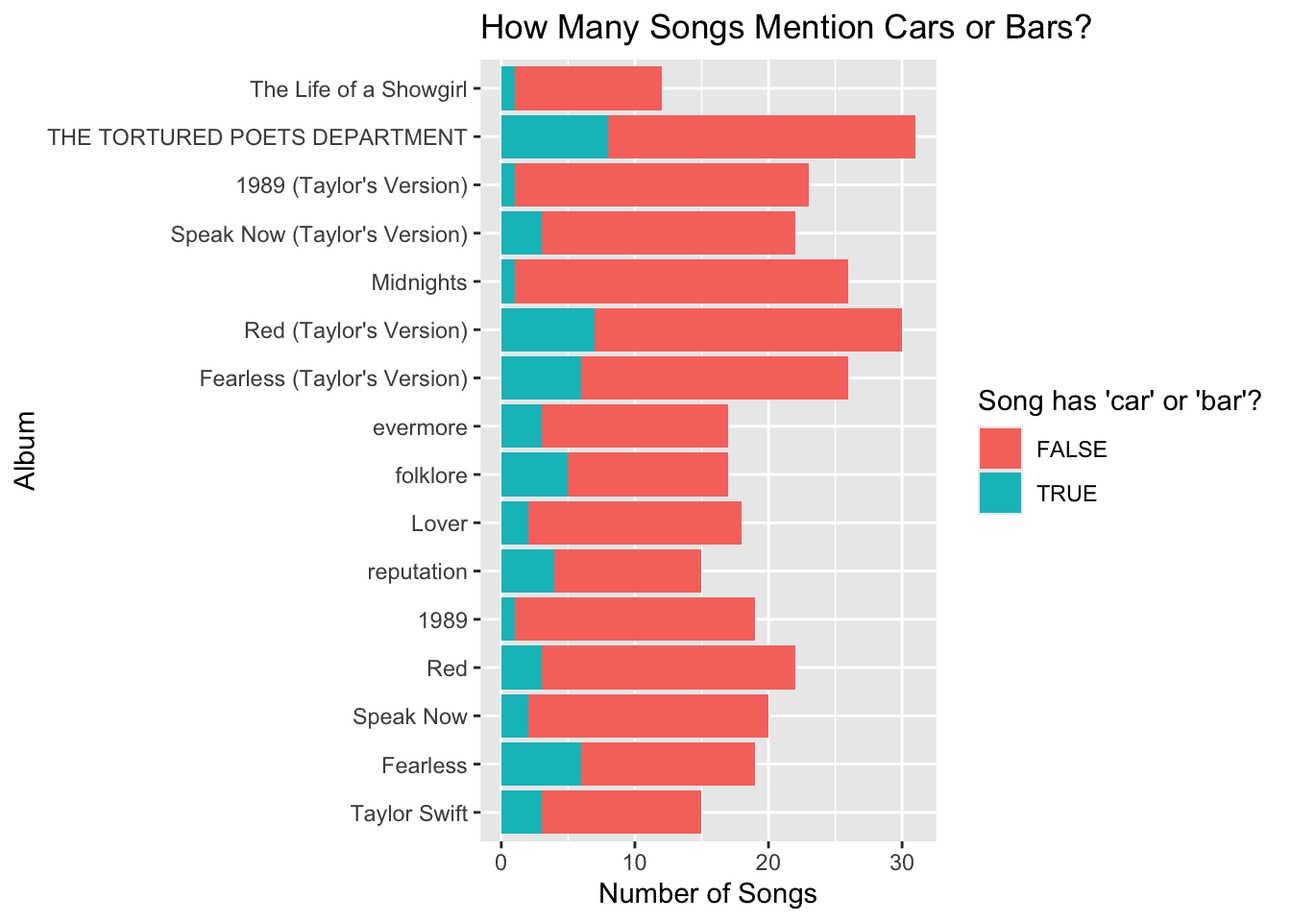
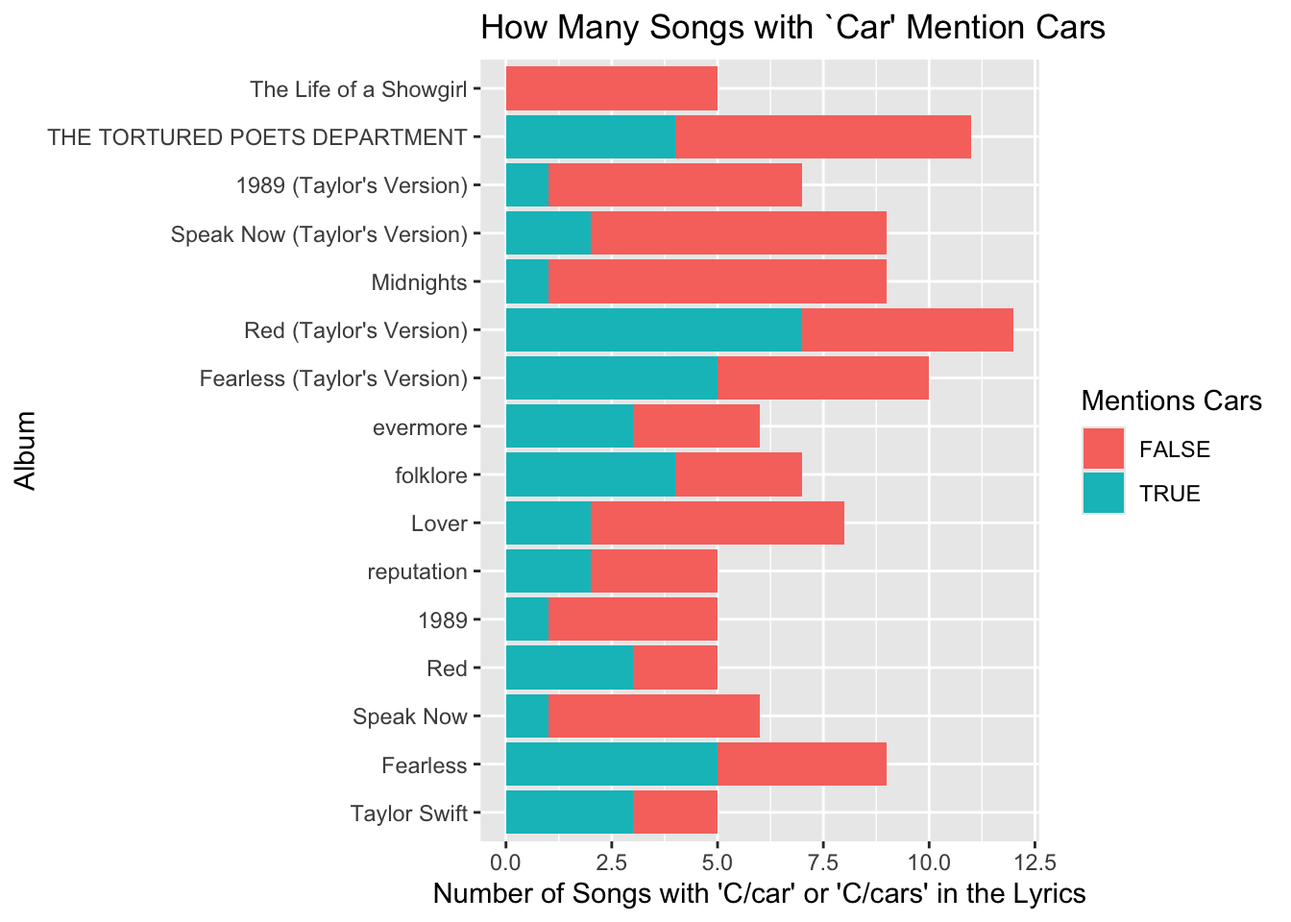
Graphics for Project 2 done

Changed region(s): [[0.3438, 0.0, 0.9688, 1.0], [0.5625, 0.4375, 0.6562, 0.5938], [0.4688, 0.0625, 0.5625, 0.1875]]

diff --git a/docs/about.html b/docs/about.html
@@ -203,34 +203,43 @@ pre > code.sourceCode > span > a:first-child::before { text-decoration: underlin
 <div class="cell">
 <details class="code-fold">
 <summary>R Code</summary>
-<div class="code-copy-outer-scaffold"><div class="sourceCode cell-code" id="cb2"><pre class="sourceCode r code-with-copy"><code class="sourceCode r"><span id="cb2-1"><a href="#cb2-1" aria-hidden="true" tabindex="-1"></a>car_bar_data_1 <span class="ot">&lt;-</span> taylor_album_songs <span class="sc">|&gt;</span></span>
-<span id="cb2-2"><a href="#cb2-2" aria-hidden="true" tabindex="-1"></a>  <span class="fu">mutate</span>(<span class="at">car =</span> <span class="fu">str_detect</span>(lyrics, <span class="st">"</span><span class="sc">\\</span><span class="st">bcar</span><span class="sc">\\</span><span class="st">b"</span>)) <span class="sc">|&gt;</span></span>
-<span id="cb2-3"><a href="#cb2-3" aria-hidden="true" tabindex="-1"></a>  <span class="fu">mutate</span>(<span class="at">bar =</span> <span class="fu">str_detect</span>(lyrics, <span class="st">"</span><span class="sc">\\</span><span class="st">bbar</span><span class="sc">\\</span><span class="st">b"</span>)) <span class="sc">|&gt;</span></span>
+<div class="code-copy-outer-scaffold"><div class="sourceCode cell-code" id="cb2"><pre class="sourceCode r code-with-copy"><code class="sourceCode r"><span id="cb2-1"><a href="#cb2-1" aria-hidden="true" tabindex="-1"></a>car_bar_data <span class="ot">&lt;-</span> taylor_album_songs <span class="sc">|&gt;</span></span>
+<span id="cb2-2"><a href="#cb2-2" aria-hidden="true" tabindex="-1"></a>  <span class="fu">mutate</span>(<span class="at">car =</span> <span class="fu">str_detect</span>(lyrics, <span class="st">"</span><span class="sc">\\</span><span class="st">b[Cc]ars?</span><span class="sc">\\</span><span class="st">b"</span>)) <span class="sc">|&gt;</span></span>
+<span id="cb2-3"><a href="#cb2-3" aria-hidden="true" tabindex="-1"></a>  <span class="fu">mutate</span>(<span class="at">bar =</span> <span class="fu">str_detect</span>(lyrics, <span class="st">"</span><span class="sc">\\</span><span class="st">b[Bb]ars?</span><span class="sc">\\</span><span class="st">b"</span>)) <span class="sc">|&gt;</span></span>
 <span id="cb2-4"><a href="#cb2-4" aria-hidden="true" tabindex="-1"></a>  <span class="fu">mutate</span>(<span class="at">car_bar =</span>  car <span class="sc">&amp;</span> bar) <span class="sc">|&gt;</span></span>
-<span id="cb2-5"><a href="#cb2-5" aria-hidden="true" tabindex="-1"></a>  <span class="fu">group_by</span>(album_name) <span class="sc">|&gt;</span></span>
-<span id="cb2-6"><a href="#cb2-6" aria-hidden="true" tabindex="-1"></a>  <span class="fu">summarize</span>(<span class="at">car_percent =</span> (<span class="fu">sum</span>(car))<span class="sc">/</span><span class="fu">n</span>(), <span class="at">bar_percent =</span> (<span class="fu">sum</span>(bar))<span class="sc">/</span><span class="fu">n</span>(), <span class="at">car_bar_tot_perc =</span> (<span class="fu">sum</span>(car_bar))<span class="sc">/</span><span class="fu">n</span>(), <span class="at">bar_over_car_perc =</span> (<span class="fu">sum</span>(car_bar))<span class="sc">/</span><span class="fu">sum</span>(car), <span class="at">car_over_bar_perc =</span> (<span class="fu">sum</span>(car_bar))<span class="sc">/</span><span class="fu">sum</span>(bar))</span></code></pre></div><button title="Copy to Clipboard" class="code-copy-button"><i class="bi"></i></button></div>
+<span id="cb2-5"><a href="#cb2-5" aria-hidden="true" tabindex="-1"></a>  <span class="fu">mutate</span>(<span class="at">car_or_bar =</span>  car <span class="sc">|</span> bar)</span></code></pre></div><button title="Copy to Clipboard" class="code-copy-button"><i class="bi"></i></button></div>
 </details>
 </div>
 <div class="cell">
 <details class="code-fold">
 <summary>R Code</summary>
-<div class="code-copy-outer-scaffold"><div class="sourceCode cell-code" id="cb3"><pre class="sourceCode r code-with-copy"><code class="sourceCode r"><span id="cb3-1"><a href="#cb3-1" aria-hidden="true" tabindex="-1"></a>car_bar_data <span class="ot">&lt;-</span> taylor_album_songs <span class="sc">|&gt;</span></span>
-<span id="cb3-2"><a href="#cb3-2" aria-hidden="true" tabindex="-1"></a>  <span class="fu">mutate</span>(<span class="at">car =</span> <span class="fu">str_detect</span>(lyrics, <span class="st">"</span><span class="sc">\\</span><span class="st">b[Cc]ars?</span><span class="sc">\\</span><span class="st">b"</span>)) <span class="sc">|&gt;</span></span>
-<span id="cb3-3"><a href="#cb3-3" aria-hidden="true" tabindex="-1"></a>  <span class="fu">mutate</span>(<span class="at">bar =</span> <span class="fu">str_detect</span>(lyrics, <span class="st">"</span><span class="sc">\\</span><span class="st">b[Bb]ars?</span><span class="sc">\\</span><span class="st">b"</span>)) <span class="sc">|&gt;</span></span>
-<span id="cb3-4"><a href="#cb3-4" aria-hidden="true" tabindex="-1"></a>  <span class="fu">mutate</span>(<span class="at">car_bar =</span>  car <span class="sc">&amp;</span> bar) <span class="sc">|&gt;</span></span>
-<span id="cb3-5"><a href="#cb3-5" aria-hidden="true" tabindex="-1"></a>  <span class="fu">mutate</span>(<span class="at">car_or_bar =</span>  car <span class="sc">|</span> bar)</span></code></pre></div><button title="Copy to Clipboard" class="code-copy-button"><i class="bi"></i></button></div>
+<div class="code-copy-outer-scaffold"><div class="sourceCode cell-code" id="cb3"><pre class="sourceCode r code-with-copy"><code class="sourceCode r"><span id="cb3-1"><a href="#cb3-1" aria-hidden="true" tabindex="-1"></a><span class="fu">ggplot</span>(<span class="fu">filter</span>(car_bar_data, bar), <span class="fu">aes</span>(<span class="at">x =</span> <span class="fu">fct_relevel</span>(album_name, album_levels), <span class="at">fill =</span> car_bar)) <span class="sc">+</span></span>
+<span id="cb3-2"><a href="#cb3-2" aria-hidden="true" tabindex="-1"></a><span class="fu">geom_bar</span>() <span class="sc">+</span></span>
+<span id="cb3-3"><a href="#cb3-3" aria-hidden="true" tabindex="-1"></a><span class="fu">labs</span>(</span>
+<span id="cb3-4"><a href="#cb3-4" aria-hidden="true" tabindex="-1"></a><span class="at">title =</span> <span class="st">"How many songs with Bar also have Car?"</span>,</span>
+<span id="cb3-5"><a href="#cb3-5" aria-hidden="true" tabindex="-1"></a><span class="at">x =</span> <span class="st">"Album"</span>,</span>
+<span id="cb3-6"><a href="#cb3-6" aria-hidden="true" tabindex="-1"></a><span class="at">y =</span> <span class="st">"Number of Songs Mentioning Bars"</span>,</span>
+<span id="cb3-7"><a href="#cb3-7" aria-hidden="true" tabindex="-1"></a><span class="at">fill =</span> <span class="st">"Song Mentions Cars?"</span></span>
+<span id="cb3-8"><a href="#cb3-8" aria-hidden="true" tabindex="-1"></a>)<span class="sc">+</span> <span class="fu">coord_flip</span>()</span></code></pre></div><button title="Copy to Clipboard" class="code-copy-button"><i class="bi"></i></button></div>
 </details>
+<div class="cell-output-display">
+<div>
+<figure class="figure">
+<p><img src="about_files/figure-html/unnamed-chunk-3-1.png" class="img-fluid figure-img" width="672"></p>
+</figure>
+</div>
+</div>
 </div>
 <div class="cell">
 <details class="code-fold">
 <summary>R Code</summary>
-<div class="code-copy-outer-scaffold"><div class="sourceCode cell-code" id="cb4"><pre class="sourceCode r code-with-copy"><code class="sourceCode r"><span id="cb4-1"><a href="#cb4-1" aria-hidden="true" tabindex="-1"></a><span class="fu">ggplot</span>(<span class="fu">filter</span>(car_bar_data, bar), <span class="fu">aes</span>(<span class="at">x =</span> <span class="fu">fct_relevel</span>(album_name, album_levels), <span class="at">fill =</span> car_bar)) <span class="sc">+</span></span>
+<div class="code-copy-outer-scaffold"><div class="sourceCode cell-code" id="cb4"><pre class="sourceCode r code-with-copy"><code class="sourceCode r"><span id="cb4-1"><a href="#cb4-1" aria-hidden="true" tabindex="-1"></a><span class="fu">ggplot</span>(<span class="fu">filter</span>(car_bar_data, car), <span class="fu">aes</span>(<span class="at">x =</span> <span class="fu">fct_relevel</span>(album_name, album_levels), <span class="at">fill =</span> car_bar)) <span class="sc">+</span></span>
 <span id="cb4-2"><a href="#cb4-2" aria-hidden="true" tabindex="-1"></a><span class="fu">geom_bar</span>() <span class="sc">+</span></span>
 <span id="cb4-3"><a href="#cb4-3" aria-hidden="true" tabindex="-1"></a><span class="fu">labs</span>(</span>
-<span id="cb4-4"><a href="#cb4-4" aria-hidden="true" tabindex="-1"></a><span class="at">title =</span> <span class="st">"How many songs with Bar also have Car?"</span>,</span>
+<span id="cb4-4"><a href="#cb4-4" aria-hidden="true" tabindex="-1"></a><span class="at">title =</span> <span class="st">"How many songs with Car also have Bar?"</span>,</span>
 <span id="cb4-5"><a href="#cb4-5" aria-hidden="true" tabindex="-1"></a><span class="at">x =</span> <span class="st">"Album"</span>,</span>
-<span id="cb4-6"><a href="#cb4-6" aria-hidden="true" tabindex="-1"></a><span class="at">y =</span> <span class="st">"Number of Songs Mentioning Bars"</span>,</span>
-<span id="cb4-7"><a href="#cb4-7" aria-hidden="true" tabindex="-1"></a><span class="at">fill =</span> <span class="st">"Song Mentions Cars?"</span></span>
+<span id="cb4-6"><a href="#cb4-6" aria-hidden="true" tabindex="-1"></a><span class="at">y =</span> <span class="st">"Number of Songs Mentioning Cars"</span>,</span>
+<span id="cb4-7"><a href="#cb4-7" aria-hidden="true" tabindex="-1"></a><span class="at">fill =</span> <span class="st">"Song Mentions Bars?"</span></span>
 <span id="cb4-8"><a href="#cb4-8" aria-hidden="true" tabindex="-1"></a>)<span class="sc">+</span> <span class="fu">coord_flip</span>()</span></code></pre></div><button title="Copy to Clipboard" class="code-copy-button"><i class="bi"></i></button></div>
 </details>
 <div class="cell-output-display">
@@ -244,13 +253,13 @@ pre > code.sourceCode > span > a:first-child::before { text-decoration: underlin
 <div class="cell">
 <details class="code-fold">
 <summary>R Code</summary>
-<div class="code-copy-outer-scaffold"><div class="sourceCode cell-code" id="cb5"><pre class="sourceCode r code-with-copy"><code class="sourceCode r"><span id="cb5-1"><a href="#cb5-1" aria-hidden="true" tabindex="-1"></a><span class="fu">ggplot</span>(<span class="fu">filter</span>(car_bar_data, car), <span class="fu">aes</span>(<span class="at">x =</span> <span class="fu">fct_relevel</span>(album_name, album_levels), <span class="at">fill =</span> car_bar)) <span class="sc">+</span></span>
+<div class="code-copy-outer-scaffold"><div class="sourceCode cell-code" id="cb5"><pre class="sourceCode r code-with-copy"><code class="sourceCode r"><span id="cb5-1"><a href="#cb5-1" aria-hidden="true" tabindex="-1"></a><span class="fu">ggplot</span>(car_bar_data, <span class="fu">aes</span>(<span class="at">x =</span> <span class="fu">fct_relevel</span>(album_name, album_levels), <span class="at">fill =</span> car_or_bar)) <span class="sc">+</span></span>
 <span id="cb5-2"><a href="#cb5-2" aria-hidden="true" tabindex="-1"></a><span class="fu">geom_bar</span>() <span class="sc">+</span></span>
 <span id="cb5-3"><a href="#cb5-3" aria-hidden="true" tabindex="-1"></a><span class="fu">labs</span>(</span>
-<span id="cb5-4"><a href="#cb5-4" aria-hidden="true" tabindex="-1"></a><span class="at">title =</span> <span class="st">"How many songs with Car also have Bar?"</span>,</span>
+<span id="cb5-4"><a href="#cb5-4" aria-hidden="true" tabindex="-1"></a><span class="at">title =</span> <span class="st">"How Many Songs Mention Cars or Bars?"</span>,</span>
 <span id="cb5-5"><a href="#cb5-5" aria-hidden="true" tabindex="-1"></a><span class="at">x =</span> <span class="st">"Album"</span>,</span>
-<span id="cb5-6"><a href="#cb5-6" aria-hidden="true" tabindex="-1"></a><span class="at">y =</span> <span class="st">"Number of Songs Mentioning Cars"</span>,</span>
-<span id="cb5-7"><a href="#cb5-7" aria-hidden="true" tabindex="-1"></a><span class="at">fill =</span> <span class="st">"Song Mentions Bars?"</span></span>
+<span id="cb5-6"><a href="#cb5-6" aria-hidden="true" tabindex="-1"></a><span class="at">y =</span> <span class="st">"Number of Songs"</span>,</span>
+<span id="cb5-7"><a href="#cb5-7" aria-hidden="true" tabindex="-1"></a><span class="at">fill =</span> <span class="st">"Song Mentions Cars or Bars?"</span></span>
 <span id="cb5-8"><a href="#cb5-8" aria-hidden="true" tabindex="-1"></a>)<span class="sc">+</span> <span class="fu">coord_flip</span>()</span></code></pre></div><button title="Copy to Clipboard" class="code-copy-button"><i class="bi"></i></button></div>
 </details>
 <div class="cell-output-display">
@@ -264,14 +273,17 @@ pre > code.sourceCode > span > a:first-child::before { text-decoration: underlin
 <div class="cell">
 <details class="code-fold">
 <summary>R Code</summary>
-<div class="code-copy-outer-scaffold"><div class="sourceCode cell-code" id="cb6"><pre class="sourceCode r code-with-copy"><code class="sourceCode r"><span id="cb6-1"><a href="#cb6-1" aria-hidden="true" tabindex="-1"></a><span class="fu">ggplot</span>(car_bar_data, <span class="fu">aes</span>(<span class="at">x =</span> <span class="fu">fct_relevel</span>(album_name, album_levels), <span class="at">fill =</span> car_or_bar)) <span class="sc">+</span></span>
-<span id="cb6-2"><a href="#cb6-2" aria-hidden="true" tabindex="-1"></a><span class="fu">geom_bar</span>() <span class="sc">+</span></span>
-<span id="cb6-3"><a href="#cb6-3" aria-hidden="true" tabindex="-1"></a><span class="fu">labs</span>(</span>
-<span id="cb6-4"><a href="#cb6-4" aria-hidden="true" tabindex="-1"></a><span class="at">title =</span> <span class="st">"How Many Songs Mention Cars or Bars?"</span>,</span>
-<span id="cb6-5"><a href="#cb6-5" aria-hidden="true" tabindex="-1"></a><span class="at">x =</span> <span class="st">"Album"</span>,</span>
-<span id="cb6-6"><a href="#cb6-6" aria-hidden="true" tabindex="-1"></a><span class="at">y =</span> <span class="st">"Number of Songs"</span>,</span>
-<span id="cb6-7"><a href="#cb6-7" aria-hidden="true" tabindex="-1"></a><span class="at">fill =</span> <span class="st">"Song has 'car' or 'bar'?"</span></span>
-<span id="cb6-8"><a href="#cb6-8" aria-hidden="true" tabindex="-1"></a>)<span class="sc">+</span> <span class="fu">coord_flip</span>()</span></code></pre></div><button title="Copy to Clipboard" class="code-copy-button"><i class="bi"></i></button></div>
+<div class="code-copy-outer-scaffold"><div class="sourceCode cell-code" id="cb6"><pre class="sourceCode r code-with-copy"><code class="sourceCode r"><span id="cb6-1"><a href="#cb6-1" aria-hidden="true" tabindex="-1"></a>car_all_data <span class="ot">&lt;-</span> car_bar_data <span class="sc">|&gt;</span></span>
+<span id="cb6-2"><a href="#cb6-2" aria-hidden="true" tabindex="-1"></a>  <span class="fu">mutate</span>(<span class="at">car_not_word =</span> <span class="fu">str_detect</span>(lyrics, <span class="st">"[Cc]ars?"</span>))</span>
+<span id="cb6-3"><a href="#cb6-3" aria-hidden="true" tabindex="-1"></a></span>
+<span id="cb6-4"><a href="#cb6-4" aria-hidden="true" tabindex="-1"></a><span class="fu">ggplot</span>(<span class="fu">filter</span>(car_all_data, car_not_word), <span class="fu">aes</span>(<span class="at">x =</span> <span class="fu">fct_relevel</span>(album_name, album_levels), <span class="at">fill =</span> car)) <span class="sc">+</span></span>
+<span id="cb6-5"><a href="#cb6-5" aria-hidden="true" tabindex="-1"></a><span class="fu">geom_bar</span>() <span class="sc">+</span></span>
+<span id="cb6-6"><a href="#cb6-6" aria-hidden="true" tabindex="-1"></a><span class="fu">labs</span>(</span>
+<span id="cb6-7"><a href="#cb6-7" aria-hidden="true" tabindex="-1"></a><span class="at">title =</span> <span class="st">"How Many Songs with `Car' Mention Cars"</span>,</span>
+<span id="cb6-8"><a href="#cb6-8" aria-hidden="true" tabindex="-1"></a><span class="at">x =</span> <span class="st">"Album"</span>,</span>
+<span id="cb6-9"><a href="#cb6-9" aria-hidden="true" tabindex="-1"></a><span class="at">y =</span> <span class="st">"Number of Songs with 'C/car' or 'C/cars' in the Lyrics"</span>,</span>
+<span id="cb6-10"><a href="#cb6-10" aria-hidden="true" tabindex="-1"></a><span class="at">fill =</span> <span class="st">"Mentions Cars"</span></span>
+<span id="cb6-11"><a href="#cb6-11" aria-hidden="true" tabindex="-1"></a>)<span class="sc">+</span> <span class="fu">coord_flip</span>()</span></code></pre></div><button title="Copy to Clipboard" class="code-copy-button"><i class="bi"></i></button></div>
 </details>
 <div class="cell-output-display">
 <div>
@@ -284,17 +296,22 @@ pre > code.sourceCode > span > a:first-child::before { text-decoration: underlin
 <div class="cell">
 <details class="code-fold">
 <summary>R Code</summary>
-<div class="code-copy-outer-scaffold"><div class="sourceCode cell-code" id="cb7"><pre class="sourceCode r code-with-copy"><code class="sourceCode r"><span id="cb7-1"><a href="#cb7-1" aria-hidden="true" tabindex="-1"></a>car_all_data <span class="ot">&lt;-</span> car_bar_data <span class="sc">|&gt;</span></span>
-<span id="cb7-2"><a href="#cb7-2" aria-hidden="true" tabindex="-1"></a>  <span class="fu">mutate</span>(<span class="at">car_not_word =</span> <span class="fu">str_detect</span>(lyrics, <span class="st">"[Cc]ars?"</span>))</span>
-<span id="cb7-3"><a href="#cb7-3" aria-hidden="true" tabindex="-1"></a></span>
-<span id="cb7-4"><a href="#cb7-4" aria-hidden="true" tabindex="-1"></a><span class="fu">ggplot</span>(<span class="fu">filter</span>(car_all_data, car_not_word), <span class="fu">aes</span>(<span class="at">x =</span> <span class="fu">fct_relevel</span>(album_name, album_levels), <span class="at">fill =</span> car)) <span class="sc">+</span></span>
-<span id="cb7-5"><a href="#cb7-5" aria-hidden="true" tabindex="-1"></a><span class="fu">geom_bar</span>() <span class="sc">+</span></span>
-<span id="cb7-6"><a href="#cb7-6" aria-hidden="true" tabindex="-1"></a><span class="fu">labs</span>(</span>
-<span id="cb7-7"><a href="#cb7-7" aria-hidden="true" tabindex="-1"></a><span class="at">title =</span> <span class="st">"How Many Songs with `Car' Mention Cars"</span>,</span>
-<span id="cb7-8"><a href="#cb7-8" aria-hidden="true" tabindex="-1"></a><span class="at">x =</span> <span class="st">"Album"</span>,</span>
-<span id="cb7-9"><a href="#cb7-9" aria-hidden="true" tabindex="-1"></a><span class="at">y =</span> <span class="st">"Number of Songs with 'C/car' or 'C/cars' in the Lyrics"</span>,</span>
-<span id="cb7-10"><a href="#cb7-10" aria-hidden="true" tabindex="-1"></a><span class="at">fill =</span> <span class="st">"Mentions Cars"</span></span>
-<span id="cb7-11"><a href="#cb7-11" aria-hidden="true" tabindex="-1"></a>)<span class="sc">+</span> <span class="fu">coord_flip</span>()</span></code></pre></div><button title="Copy to Clipboard" class="code-copy-button"><i class="bi"></i></button></div>
+<div class="code-copy-outer-scaffold"><div class="sourceCode cell-code" id="cb7"><pre class="sourceCode r code-with-copy"><code class="sourceCode r"><span id="cb7-1"><a href="#cb7-1" aria-hidden="true" tabindex="-1"></a>how_many_cars_and_bars_data <span class="ot">&lt;-</span> taylor_album_songs <span class="sc">|&gt;</span></span>
+<span id="cb7-2"><a href="#cb7-2" aria-hidden="true" tabindex="-1"></a>  <span class="fu">mutate</span>(<span class="at">how_many_car =</span> <span class="fu">str_count</span>(lyrics, <span class="st">"</span><span class="sc">\\</span><span class="st">b[Cc]ars?</span><span class="sc">\\</span><span class="st">b"</span>)) <span class="sc">|&gt;</span></span>
+<span id="cb7-3"><a href="#cb7-3" aria-hidden="true" tabindex="-1"></a>  <span class="fu">mutate</span>(<span class="at">how_many_bar =</span> <span class="fu">str_count</span>(lyrics, <span class="st">"</span><span class="sc">\\</span><span class="st">b[Bb]ars?</span><span class="sc">\\</span><span class="st">b"</span>)) <span class="sc">|&gt;</span></span>
+<span id="cb7-4"><a href="#cb7-4" aria-hidden="true" tabindex="-1"></a>  <span class="fu">filter</span>(how_many_car <span class="sc">&gt;</span> <span class="dv">0</span> <span class="sc">|</span> how_many_bar <span class="sc">&gt;</span> <span class="dv">0</span>)</span>
+<span id="cb7-5"><a href="#cb7-5" aria-hidden="true" tabindex="-1"></a></span>
+<span id="cb7-6"><a href="#cb7-6" aria-hidden="true" tabindex="-1"></a><span class="co">#I took code from https://stackoverflow.com/a/58309991</span></span>
+<span id="cb7-7"><a href="#cb7-7" aria-hidden="true" tabindex="-1"></a><span class="co"># Posted by Slouei</span></span>
+<span id="cb7-8"><a href="#cb7-8" aria-hidden="true" tabindex="-1"></a><span class="co"># Retrieved 2026-10-14, License - CC BY-SA 4.0</span></span>
+<span id="cb7-9"><a href="#cb7-9" aria-hidden="true" tabindex="-1"></a><span class="co"># To figure out how to make the legend</span></span>
+<span id="cb7-10"><a href="#cb7-10" aria-hidden="true" tabindex="-1"></a></span>
+<span id="cb7-11"><a href="#cb7-11" aria-hidden="true" tabindex="-1"></a><span class="fu">ggplot</span>(how_many_cars_and_bars_data) <span class="sc">+</span></span>
+<span id="cb7-12"><a href="#cb7-12" aria-hidden="true" tabindex="-1"></a>  <span class="fu">geom_point</span>(<span class="fu">aes</span>(<span class="at">x =</span> album_release, <span class="at">y =</span> how_many_car, <span class="at">color =</span> <span class="st">"Car"</span>), <span class="at">position =</span> <span class="fu">position_jitter</span>()) <span class="sc">+</span> <span class="fu">geom_point</span>(<span class="fu">aes</span>(<span class="at">x =</span> album_release, <span class="at">y =</span> how_many_bar, <span class="at">color =</span> <span class="st">"Bar"</span> ), <span class="at">position =</span> <span class="fu">position_jitter</span>())  <span class="sc">+</span></span>
+<span id="cb7-13"><a href="#cb7-13" aria-hidden="true" tabindex="-1"></a><span class="fu">labs</span>(</span>
+<span id="cb7-14"><a href="#cb7-14" aria-hidden="true" tabindex="-1"></a><span class="at">title =</span> <span class="st">"How Many Times Did Songs Mentioning Cars and Bars Mention Cars and Bars?"</span>,</span>
+<span id="cb7-15"><a href="#cb7-15" aria-hidden="true" tabindex="-1"></a><span class="at">x =</span> <span class="st">"Song Release Date"</span>,</span>
+<span id="cb7-16"><a href="#cb7-16" aria-hidden="true" tabindex="-1"></a><span class="at">y =</span> <span class="st">"Number of Car or Bar Mentions in Song"</span>) </span></code></pre></div><button title="Copy to Clipboard" class="code-copy-button"><i class="bi"></i></button></div>
 </details>
 <div class="cell-output-display">
 <div>
@@ -304,6 +321,45 @@ pre > code.sourceCode > span > a:first-child::before { text-decoration: underlin
 </div>
 </div>
 </div>
+<div class="cell">
+<details class="code-fold">
+<summary>R Code</summary>
+<div class="code-copy-outer-scaffold"><div class="sourceCode cell-code" id="cb8"><pre class="sourceCode r code-with-copy"><code class="sourceCode r"><span id="cb8-1"><a href="#cb8-1" aria-hidden="true" tabindex="-1"></a><span class="co">#I had to look up the "unlist()" to make the list of lists into a list with objects</span></span>
+<span id="cb8-2"><a href="#cb8-2" aria-hidden="true" tabindex="-1"></a><span class="co"># Source - https://www.r-bloggers.com/2023/08/the-unlist-function-in-r/</span></span>
+<span id="cb8-3"><a href="#cb8-3" aria-hidden="true" tabindex="-1"></a>all_ars_bad <span class="ot">&lt;-</span> <span class="fu">as.character</span>(taylor_album_songs<span class="sc">$</span>lyrics) <span class="sc">|&gt;</span> <span class="fu">str_extract_all</span>(<span class="st">"</span><span class="sc">\\</span><span class="st">b</span><span class="sc">\\</span><span class="st">w+(?&lt;!e)ars?</span><span class="sc">\\</span><span class="st">b"</span>)</span>
+<span id="cb8-4"><a href="#cb8-4" aria-hidden="true" tabindex="-1"></a></span>
+<span id="cb8-5"><a href="#cb8-5" aria-hidden="true" tabindex="-1"></a>all_ars <span class="ot">&lt;-</span> all_ars_bad <span class="sc">|&gt;</span> <span class="fu">unlist</span>()</span>
+<span id="cb8-6"><a href="#cb8-6" aria-hidden="true" tabindex="-1"></a></span>
+<span id="cb8-7"><a href="#cb8-7" aria-hidden="true" tabindex="-1"></a><span class="co"># I also had to look up a function that would make the list into a data frame</span></span>
+<span id="cb8-8"><a href="#cb8-8" aria-hidden="true" tabindex="-1"></a><span class="co">#source - https://www.geeksforgeeks.org/r-language/how-to-convert-a-list-to-a-dataframe-in-r/</span></span>
+<span id="cb8-9"><a href="#cb8-9" aria-hidden="true" tabindex="-1"></a></span>
+<span id="cb8-10"><a href="#cb8-10" aria-hidden="true" tabindex="-1"></a>all_ars_data <span class="ot">&lt;-</span> <span class="fu">as.data.frame</span>(<span class="fu">list</span>(<span class="at">raw_words =</span> all_ars)) <span class="sc">|&gt;</span></span>
+<span id="cb8-11"><a href="#cb8-11" aria-hidden="true" tabindex="-1"></a>  <span class="fu">mutate</span>(<span class="at">lowercase_ars =</span> <span class="fu">str_to_lower</span>(raw_words)) <span class="sc">|&gt;</span></span>
+<span id="cb8-12"><a href="#cb8-12" aria-hidden="true" tabindex="-1"></a>  <span class="fu">mutate</span>(<span class="at">all_singular_ars =</span> <span class="fu">ifelse</span>(<span class="fu">str_detect</span>(lowercase_ars, <span class="st">"s</span><span class="sc">\\</span><span class="st">b"</span>),<span class="fu">str_sub</span>(lowercase_ars, <span class="dv">1</span>, <span class="fu">str_length</span>(lowercase_ars)<span class="sc">-</span><span class="dv">1</span>), lowercase_ars)) <span class="sc">|&gt;</span></span>
+<span id="cb8-13"><a href="#cb8-13" aria-hidden="true" tabindex="-1"></a>  <span class="fu">group_by</span>(all_singular_ars)<span class="sc">|&gt;</span></span>
+<span id="cb8-14"><a href="#cb8-14" aria-hidden="true" tabindex="-1"></a>  <span class="fu">summarize</span>(<span class="at">ar_counts =</span> <span class="fu">n</span>())</span>
+<span id="cb8-15"><a href="#cb8-15" aria-hidden="true" tabindex="-1"></a></span>
+<span id="cb8-16"><a href="#cb8-16" aria-hidden="true" tabindex="-1"></a></span>
+<span id="cb8-17"><a href="#cb8-17" aria-hidden="true" tabindex="-1"></a></span>
+<span id="cb8-18"><a href="#cb8-18" aria-hidden="true" tabindex="-1"></a></span>
+<span id="cb8-19"><a href="#cb8-19" aria-hidden="true" tabindex="-1"></a><span class="fu">ggplot</span>(all_ars_data, <span class="fu">aes</span>(<span class="at">x =</span> <span class="fu">fct_reorder</span>(all_singular_ars, ar_counts), <span class="at">y =</span> ar_counts)) <span class="sc">+</span></span>
+<span id="cb8-20"><a href="#cb8-20" aria-hidden="true" tabindex="-1"></a><span class="fu">geom_col</span>(<span class="at">fill =</span> <span class="st">"#2aaaa2"</span>) <span class="sc">+</span></span>
+<span id="cb8-21"><a href="#cb8-21" aria-hidden="true" tabindex="-1"></a><span class="fu">labs</span>(</span>
+<span id="cb8-22"><a href="#cb8-22" aria-hidden="true" tabindex="-1"></a><span class="at">title =</span> <span class="st">"Number of Times Words Rhyming with Car are Mentioned"</span>,</span>
+<span id="cb8-23"><a href="#cb8-23" aria-hidden="true" tabindex="-1"></a><span class="at">x =</span> <span class="st">"Lyric"</span>,</span>
+<span id="cb8-24"><a href="#cb8-24" aria-hidden="true" tabindex="-1"></a><span class="at">y =</span> <span class="st">"Number of Mentions"</span>,</span>
+<span id="cb8-25"><a href="#cb8-25" aria-hidden="true" tabindex="-1"></a><span class="at">fill =</span> <span class="st">"Song Mentions Cars?"</span></span>
+<span id="cb8-26"><a href="#cb8-26" aria-hidden="true" tabindex="-1"></a>)<span class="sc">+</span> <span class="fu">coord_flip</span>()</span></code></pre></div><button title="Copy to Clipboard" class="code-copy-button"><i class="bi"></i></button></div>
+</details>
+<div class="cell-output-display">
+<div>
+<figure class="figure">
+<p><img src="about_files/figure-html/unnamed-chunk-8-1.png" class="img-fluid figure-img" width="672"></p>
+</figure>
+</div>
+</div>
+</div>
+<p>Combinatorialists rejoice! Taylor Swift is clearly a fan of stars and bars.</p>
 
 
 
